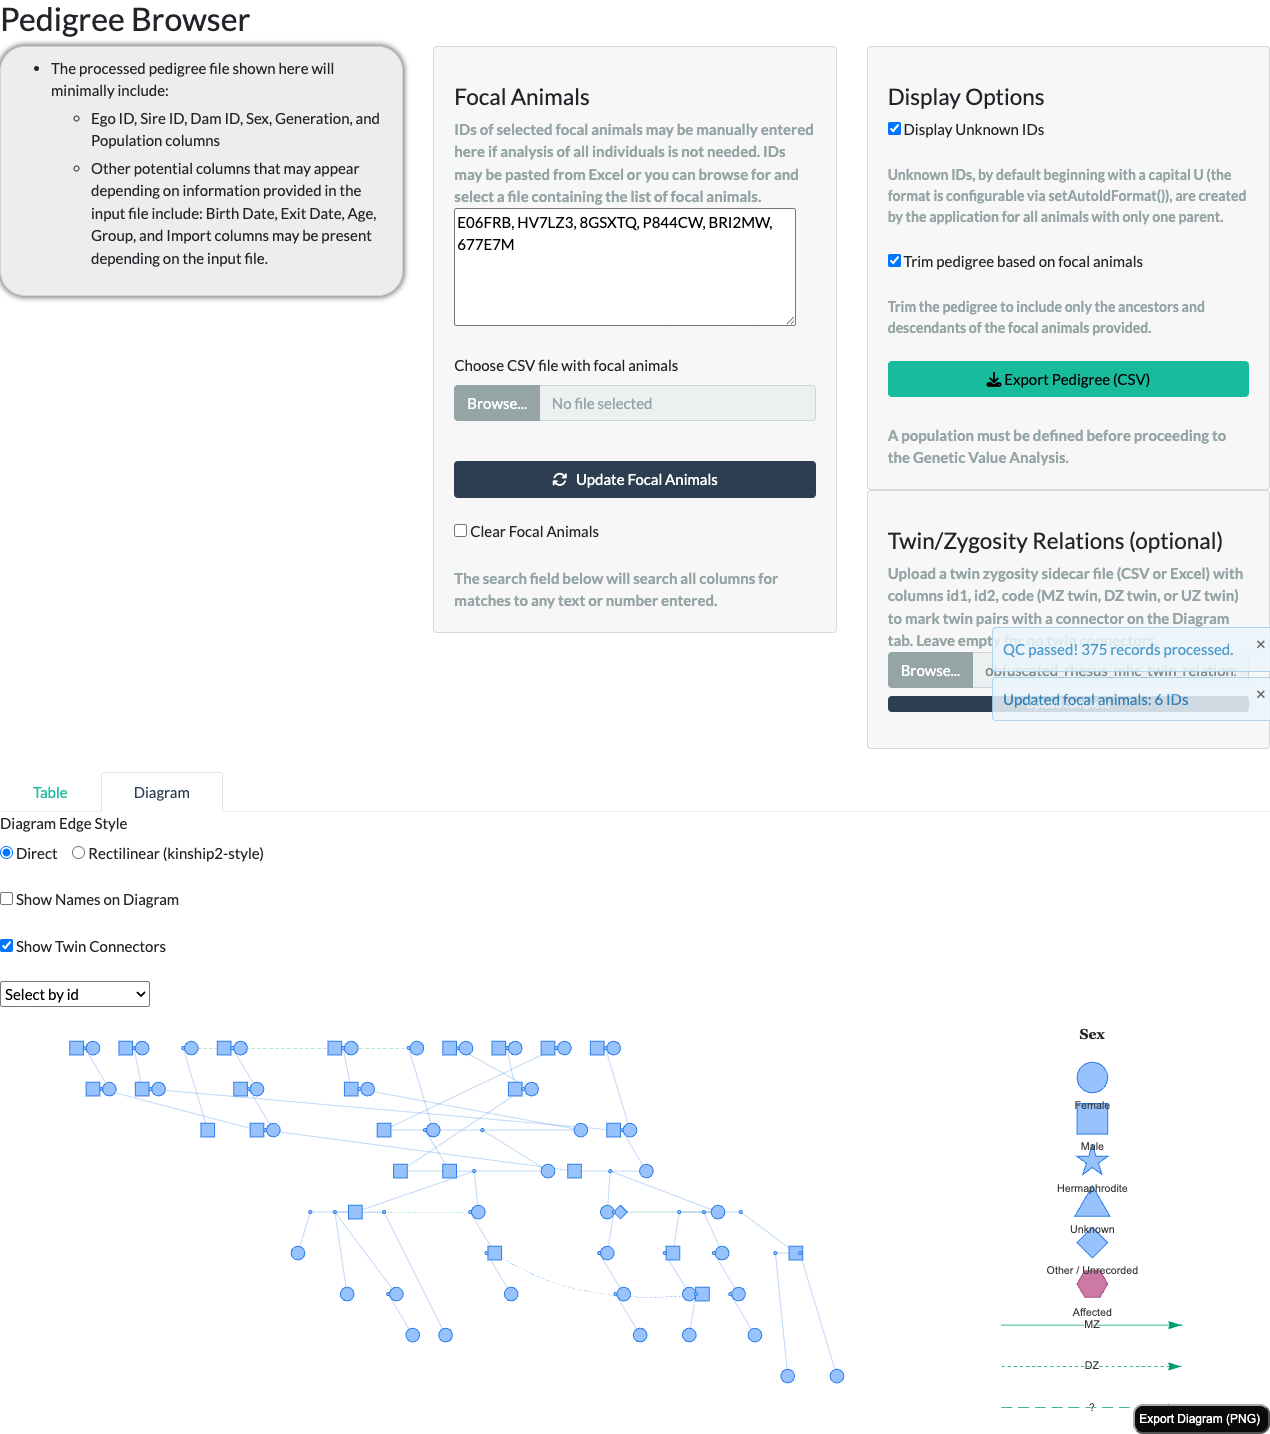
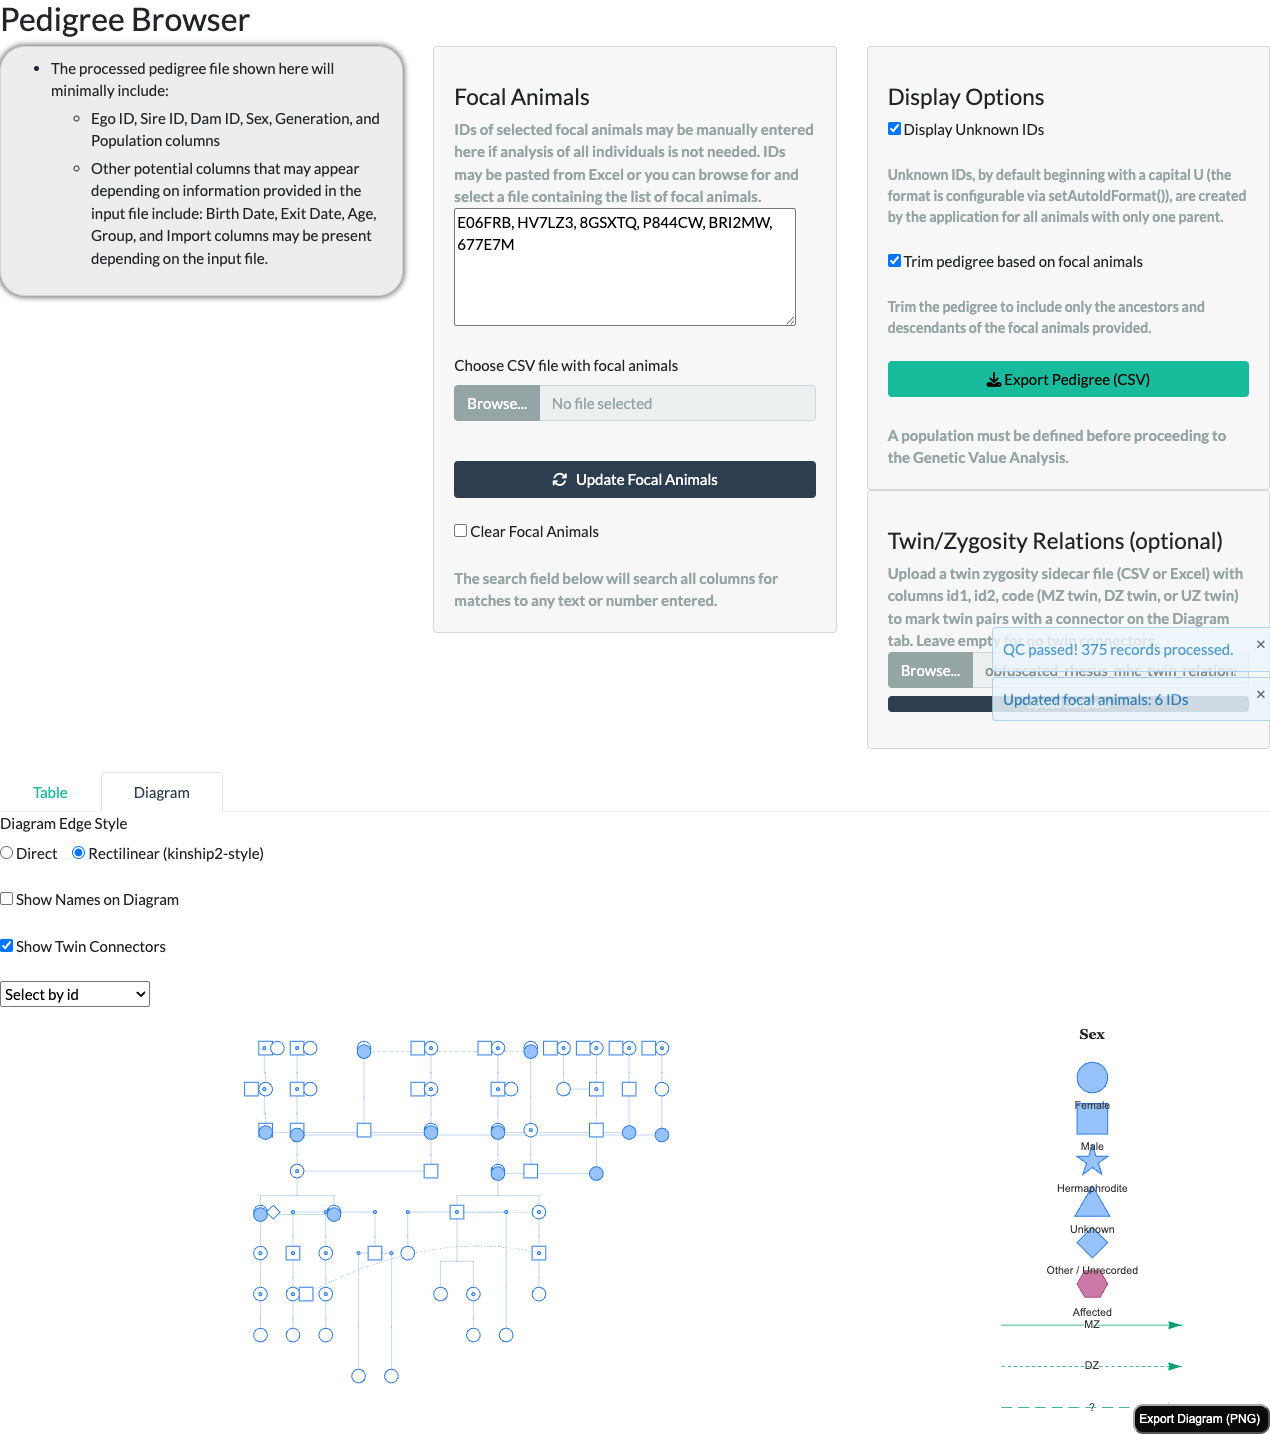
docs: S630 -- regenerate pedigree-diagram.qmd screenshots against the fixed app, close BACKLOG.md staleness item
All 5 vignettes/articles/shiny_app_use/{pb_diagram_legend,diagram_rectilinear_edge_style,
diagram_show_names,diagram_affected_shading,diagram_twin_connectors}.png regenerated
via pedigree-diagram-screenshots.R against a fresh install of the current (bug-fixed)
source. Confirms BACKLOG.md's flagged-but-unverified staleness item (found S582): all
3 non-base-fixture screenshots had indeed drifted to the pre-Track-2 'direct' edge-style
default; more importantly, regenerating them first surfaced the live .detectStraight()
crash fixed in the prior 2 commits. All 5 verified visually correct against the fixed
app (no crash, correct Rectilinear default, names/affected-shading/twin-connectors all
render as described).

diff --git a/BACKLOG.md b/BACKLOG.md
@@ -290,18 +290,28 @@ S370 (2026-07-12): see `CHANGELOG.md`. No items remain in this section.*
       itself IS `reuse lint`-compliant now (1234/1234, verified locally); only the badge's live
       display is blocked on this registration step. A future session can verify the badge went
       green after the owner registers, but cannot perform the registration itself.
-- [ ] (found S582, 2026-08-14, incidental to the `pb_diagram_legend.png` reshoot above, READY,
-      Effort S -- not verified) **`vignettes/articles/pedigree-diagram-screenshots.R`'s other 3
-      non-base-fixture screenshots may have gone stale by the same default-flip mechanism as
-      `pb_diagram_legend.png` above.** `diagram_show_names.png`, `diagram_affected_shading.png`,
-      and `diagram_twin_connectors.png` are each captured without ever setting
-      `pedigreeEdgeStyle` (see the script's own "3.", "4.", "5." sections) -- like
-      `pb_diagram_legend.png` before this session's fix, each therefore renders whatever the app's
-      zero-interaction default is, which Track 2 (S574) changed from "direct" to "rectilinear". If
-      any of these 3 committed images still show diagonal (`direct`-style) edge routing, they are
-      stale in the same way `pb_diagram_legend.png` was. Not checked this session (out of the
-      pb_diagram_legend.png item's own scope) -- a future session should open each and confirm,
-      reshooting via the same script/technique if stale.
+- [x] (found S582, 2026-08-14, incidental to the `pb_diagram_legend.png` reshoot above) **RESOLVED
+      S630 (2026-08-25):** the staleness fear was confirmed real (all 3 -- plus `pb_diagram_legend.png`
+      and `diagram_rectilinear_edge_style.png` -- had drifted to the pre-Track-2 "direct" default),
+      but re-running `pedigree-diagram-screenshots.R` surfaced something more serious first: the
+      Diagram tab's own default (Rectilinear) edge style crashed with `Error: subscript out of
+      bounds` on a realistic focal-animal trim of the real bundled fixture -- a real, live
+      regression, not a screenshot artifact (confirmed via a fresh package reinstall from current
+      `HEAD` and a standalone `shinytest2::AppDriver` run with full server-log capture, ruling out
+      both a stale-build false alarm and a screenshot-harness artifact). Root-caused to
+      `.detectStraight()` inside `.resolveEdgeNodeCollisions()`
+      (`R/makePedigreeDiagramData.R`, introduced by commit `c7bdbe4b`, issue #160 Track 2):
+      `xOf`/`yOf` were named ATOMIC vectors, and `[[` on an atomic vector throws for an unmatched
+      name instead of returning `NULL`, so the existing `is.null(yf)`/`is.null(yt)` guard (written
+      for list semantics) never fired whenever an edge referenced a node id genuinely absent from
+      `nodes` -- exactly what a real ancestors+descendants focal-trim union can produce. Fixed via
+      full strict-TDD RED->GREEN (2 new tests: a minimal synthetic dangling-reference fixture, and
+      a real-fixture regression pinning the exact production crash), `AskUserQuestion`-gated at
+      PRE-RED/RED->GREEN/GREEN->REFACTOR (owner confirmed no refactor needed -- the fix is a 2-line
+      change, `stats::setNames(...)` -> `as.list(stats::setNames(...))`). All 5 screenshots
+      regenerated against the fixed app and confirmed correct. Not filed as a GitHub issue, matching
+      the established "found-and-fixed same session" precedent. See `CHANGELOG.md` and
+      `PROJECT_LEARNINGS.md`.
 - [ ] (found S508, 2026-08-10, re-surfaced S559, 2026-08-13, **RESOLVED S561**.
       **`HANDOFFS.md`'s declared `methodology_trim.py` regenerated field ("retained
       receipt count") had no matching "This file currently holds **N**" sentence in the
